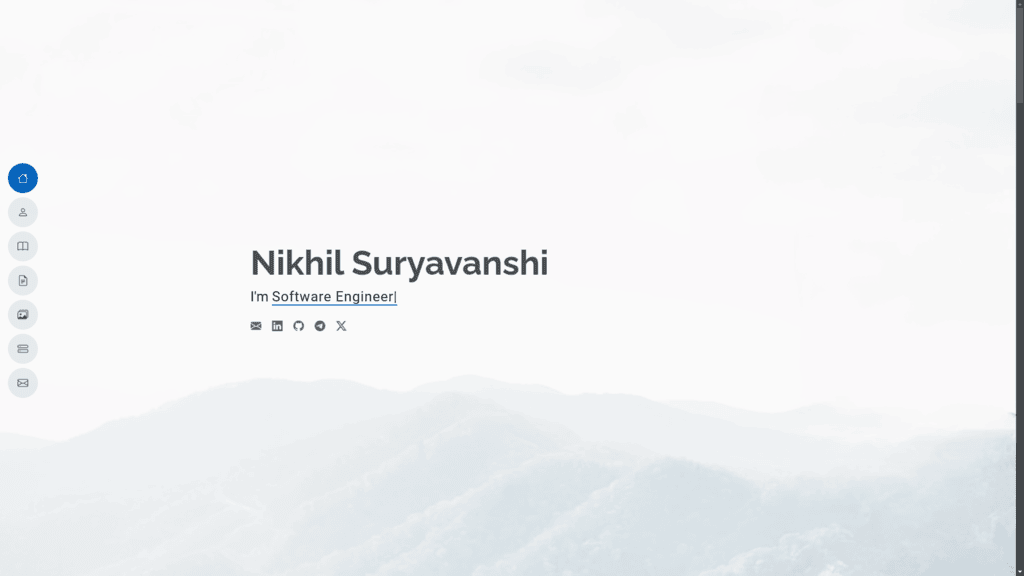
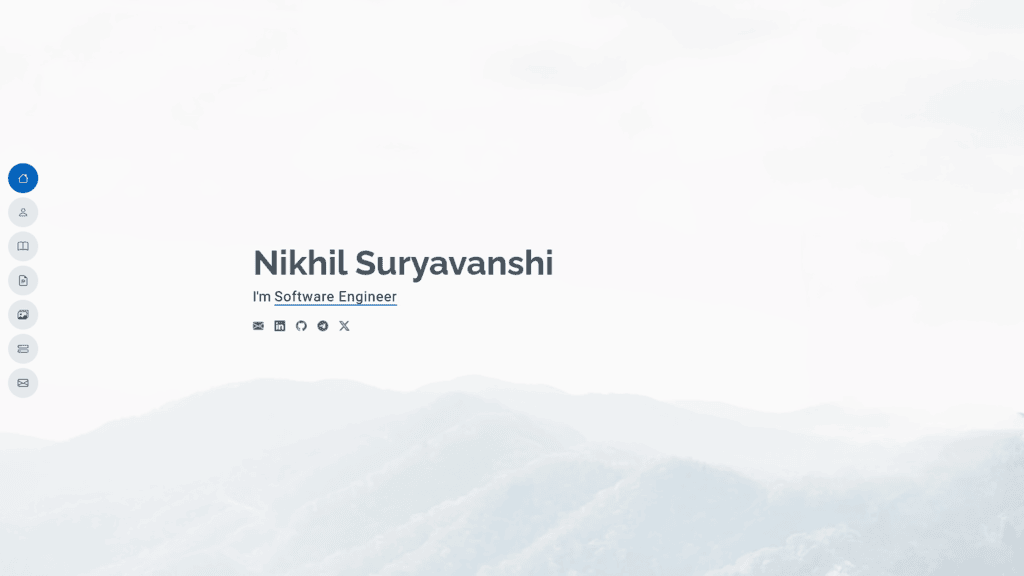
some fixes

Changed region(s): [[0.9688, 0.0, 1.0, 1.0], [0.2188, 0.4375, 0.5625, 0.5312], [0.25, 0.5625, 0.3438, 0.5938]]

diff --git a/src/components/home/Portfolio.jsx b/src/components/home/Portfolio.jsx
@@ -35,8 +35,8 @@ const Portfolio = () => {
       </div>
 
       <div className="container">
-        <div className="isotope-layout" data-default-filter="*" data-layout="masonry" data-sort="original-order">
-          <ul className="portfolio-filters isotope-filters" data-aos="fade-up" data-aos-delay="50">
+        <div className="isotope-layout" data-default-filter="*" data-layout="masonry" data-sort="original-order" data-aos="fade-up" data-aos-delay="40">
+          <ul className="portfolio-filters isotope-filters">
             <li className={activeFilter == '*' ? 'filter-active' : ''} onClick={() => handleFilterClick('*')}>All</li>
             {portfolioData.filters.map((item) => {
               const filterClass = "." + item.class;
@@ -47,7 +47,7 @@ const Portfolio = () => {
             })}
           </ul>
 
-          <div className="row gy-4 isotope-container" data-aos="fade-up" data-aos-delay="100" ref={isotopeContainer}>
+          <div className="row gy-4 isotope-container" data-aos="fade-up" data-aos-delay="80" ref={isotopeContainer}>
             {portfolioData.portfolioItems.map((item, index) => (<PortfolioItem key={index} item={item} activeFilter={activeFilter} />))}
           </div>
         </div>

diff --git a/src/components/home/Services.jsx b/src/components/home/Services.jsx
@@ -33,7 +33,7 @@ const Services = () => {
 
   return (
     <section id="services" className="services section">
-      <div className="container section-title" data-aos="fade-up">
+      <div className="container section-title" data-aos="fade-up" data-aos-delay={100}>
         <h2>Services</h2>
         <p>{servicesData.mainSummary}</p>
       </div>

diff --git a/src/App.jsx b/src/App.jsx
@@ -11,6 +11,7 @@ import 'devicon'
 
 // Load this css at last
 import "@/assets/css/app.css";
+import "@/assets/img/images"
 
 const App = () => {
   useAOS(); // Initialize AOS for animations
